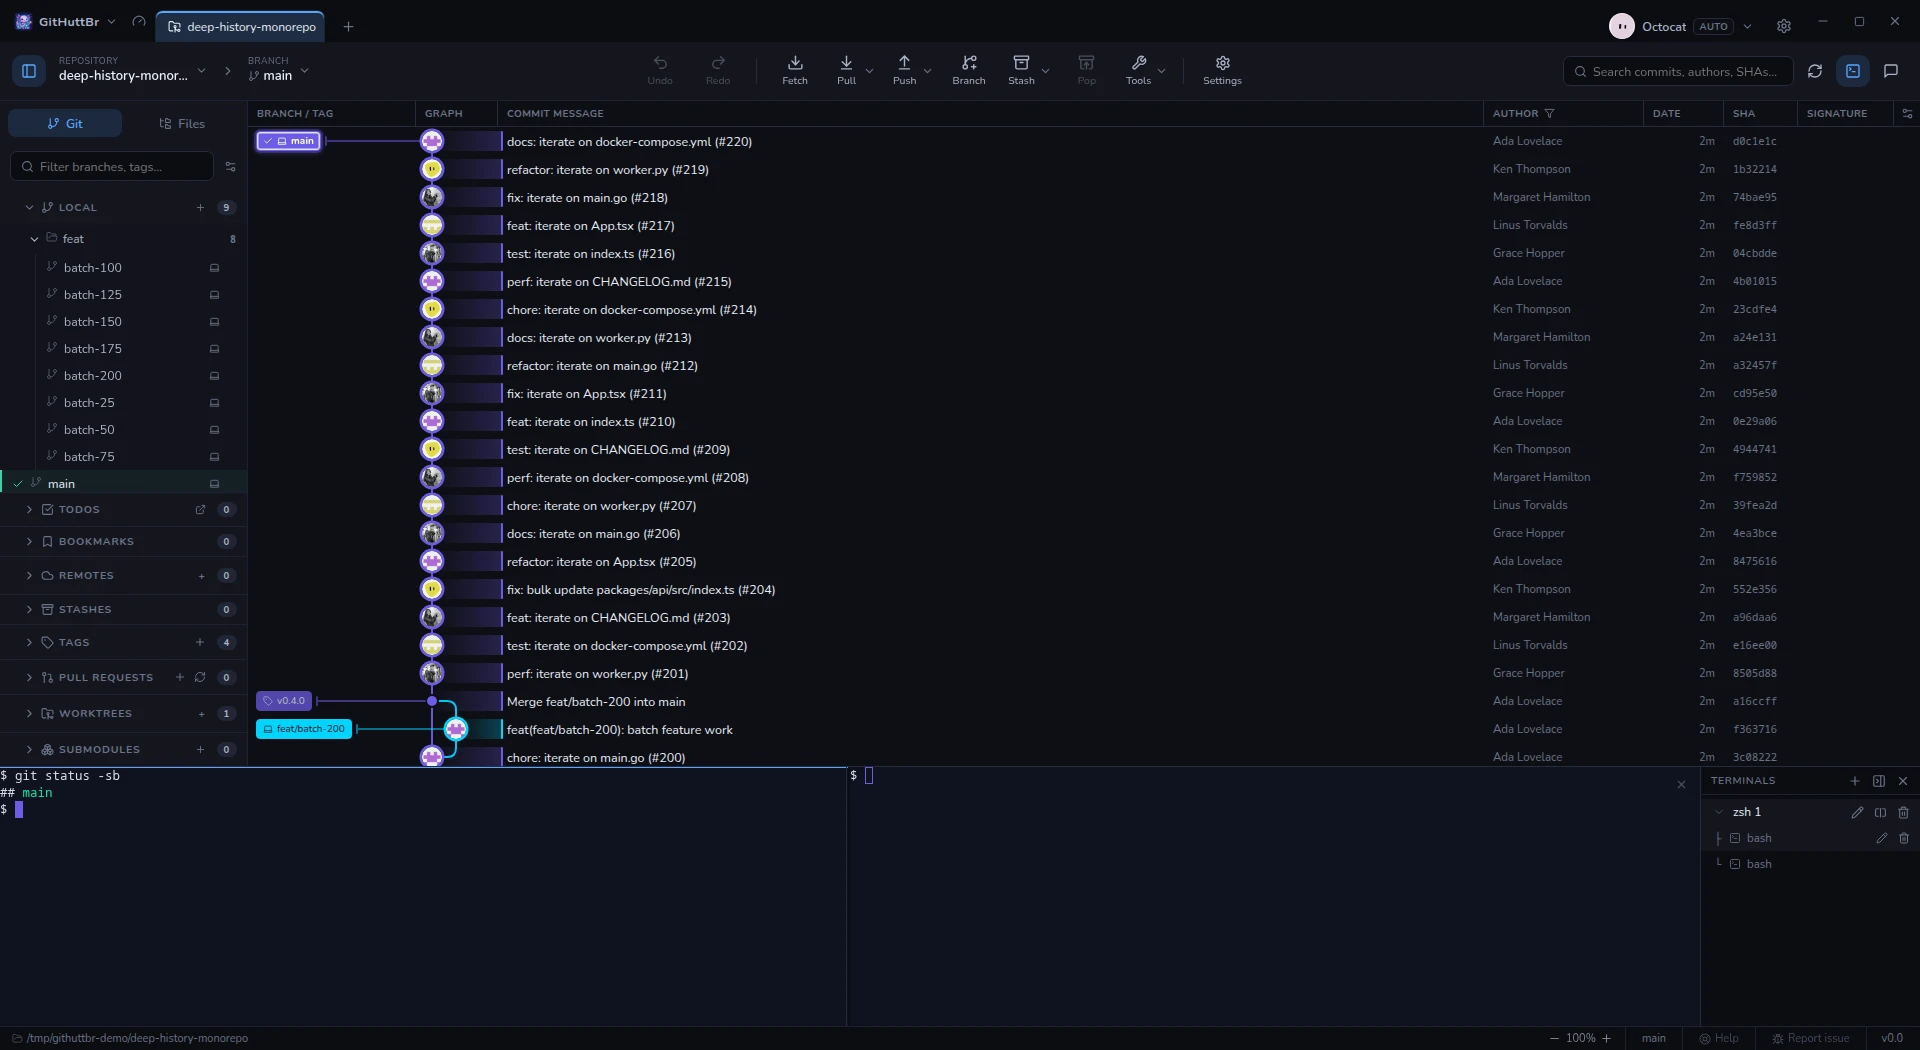
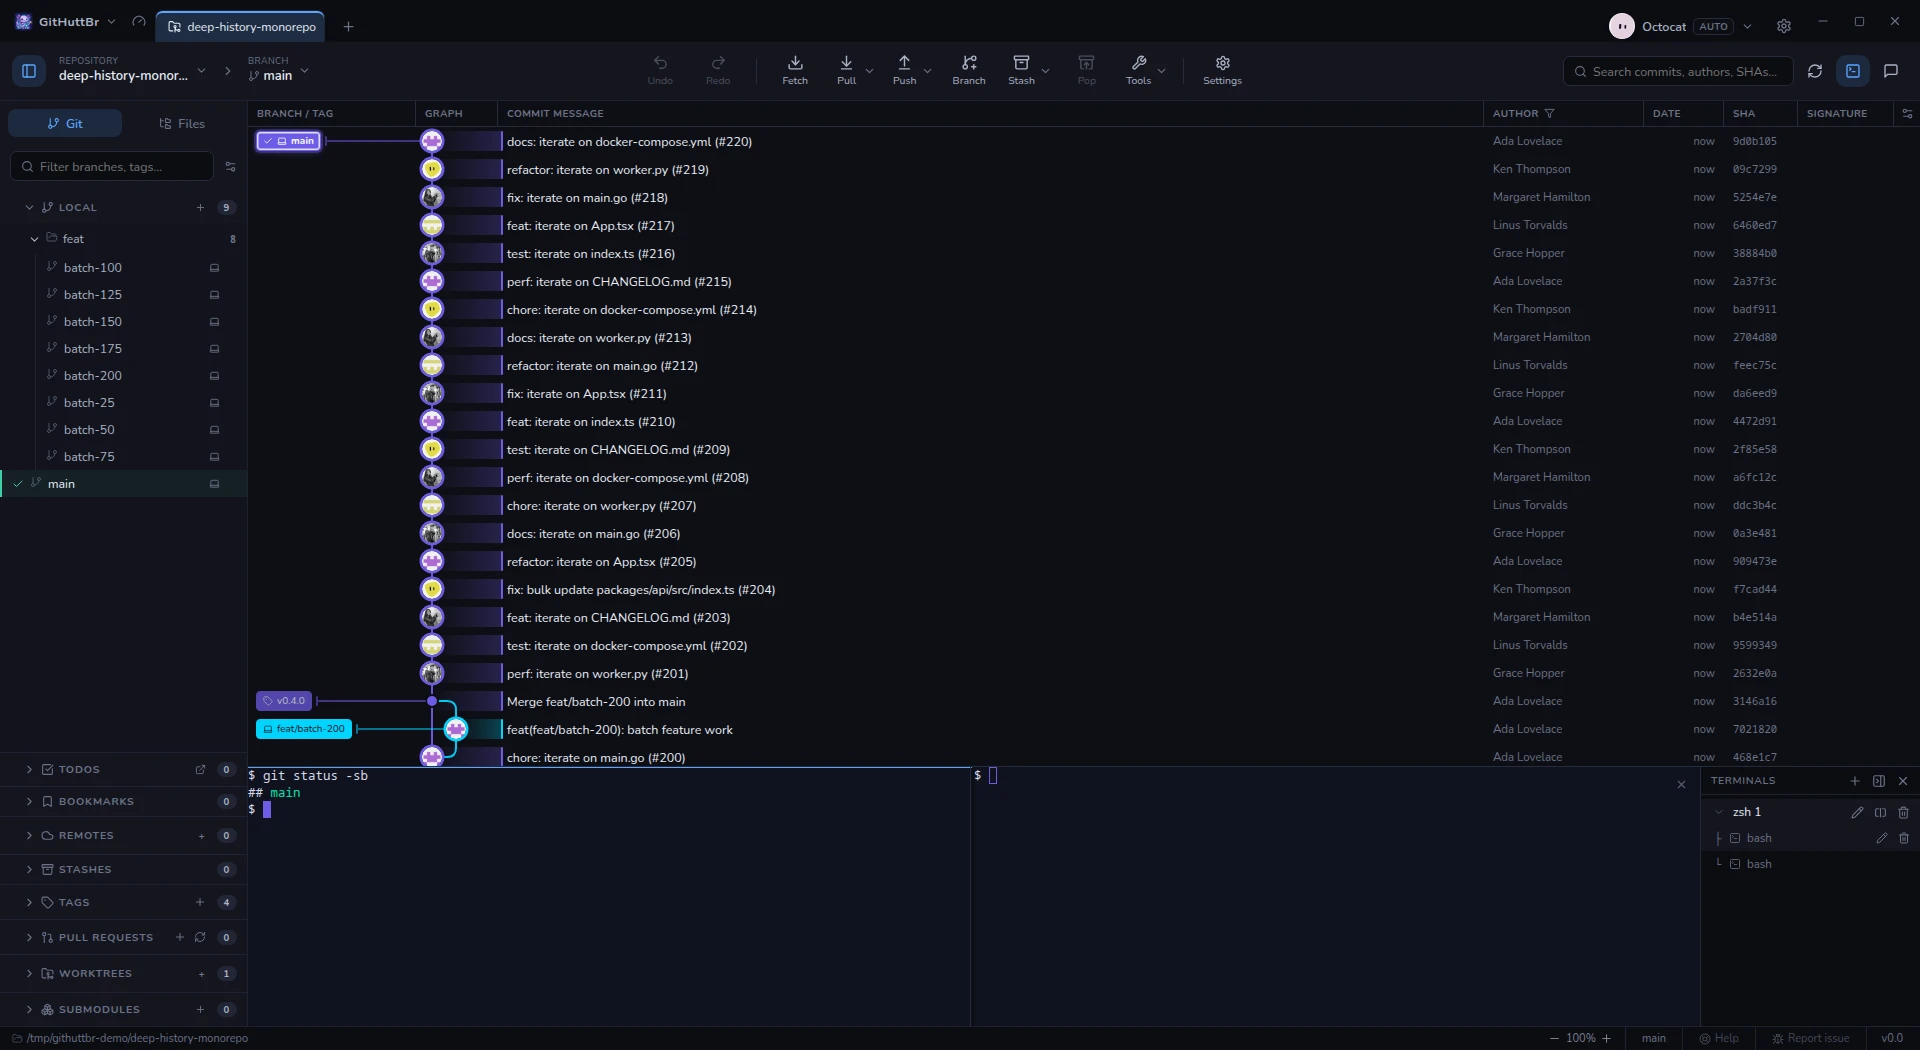
docs(terminal): document the center default and opening with a repository
Seed the screenshot harness with the option off so only terminal shots
show a terminal, and regenerate the three terminal shots in the new
default layout.

diff --git a/docs/help/terminal.md b/docs/help/terminal.md
@@ -2,8 +2,8 @@
 title: Integrated terminal
 category: Workspace tools
 order: 90
-summary: A real PTY docked under the repo, with tabs per repository.
-keywords: terminal shell pty xterm console tabs docked autocomplete npm run scripts make makefile composer branch checkout
+summary: A real PTY docked under the graph, opened with each repository, with tabs per repository.
+keywords: terminal shell pty xterm console tabs docked placement center bottom open on startup auto open autocomplete npm run scripts make makefile composer branch checkout
 ---
 
 # Integrated terminal
@@ -14,13 +14,23 @@ your aliases.
 ![The integrated terminal](../screenshots/terminal.webp)
 
 - **Multiple tabs per repository**, each starting in that repository's folder.
-- Dock it **under** the graph or as a **right-hand column**; the pane remembers
-  its size.
+- It docks **under the graph** by default, with the sidebars keeping the full
+  height; Settings → Layout moves it to the **whole bottom edge** or a
+  **right-hand column**. The pane remembers its size, and a placement you chose
+  before this became the default is kept.
+- **It opens with the repository.** The first time a repository becomes the
+  active tab in a session — restored at startup, opened from the welcome screen,
+  cloned, or sent by `githuttbr .` — its terminal opens with a shell in that
+  folder. Close it and it stays closed for that repository until the next
+  launch; switching tabs does not bring it back. Each repository you visit costs
+  one shell process, so if you hop across many, turn off **Open the terminal
+  when a repository opens** in Settings → Layout.
 - Each terminal remembers **where you were reading**: switch terminals, groups
   or repo tabs and the scrollback stays put — pinned to the bottom when it was
   already following output, back on the same line when it was not.
-- Terminal visibility is per repository: switching to a tab that never opened one
-  keeps it closed.
+- Terminal visibility is per repository: closing one repository's terminal
+  leaves the others as they are. With the option above off, switching to a tab
+  that never opened one keeps it closed.
 - Tabs name themselves after what is running in them.
 - Collapsing the terminal list shrinks it to a **rail**: one icon per terminal
   (split terminals show a mini panel map), click to switch, right-click for the

diff --git a/docs/help/uk/terminal.md b/docs/help/uk/terminal.md
@@ -18,6 +18,7 @@ keywords: термінал оболонка консоль вкладки pty te
   свій розмір.
 - Видимість термінала — окрема для кожного репозиторію: перехід на вкладку, де
   його ніколи не відкривали, залишає його закритим.
+- **Відкривається разом із репозиторієм і типово стоїть під графом.** Коли репозиторій уперше за сеанс стає активною вкладкою, його термінал відкривається з оболонкою в цій теці. Якщо закрити його, для цього репозиторію він лишиться закритим до наступного запуску. Кожен відвіданий репозиторій — це один процес оболонки; вимкніть **Відкривати термінал під час відкриття репозиторію** або змініть розташування в Налаштування → Розкладка.
 - Вкладки називають себе за тим, що в них виконується.
 - Згорнутий список терміналів стискається до **рейки**: одна іконка на термінал
   (розділені термінали показують міні-карту панелей), клацніть, щоб перемкнутися,

diff --git a/docs/help/ru/terminal.md b/docs/help/ru/terminal.md
@@ -19,6 +19,7 @@ keywords: терминал terminal шелл shell pty xterm консоль вк
   размер.
 - Видимость терминала своя у каждого репозитория: переключение на вкладку, где
   его ни разу не открывали, оставит его закрытым.
+- **Открывается вместе с репозиторием и по умолчанию стоит под графом.** Когда репозиторий впервые за сеанс становится активной вкладкой, его терминал открывается с оболочкой в этой папке. Если закрыть его, для этого репозитория он останется закрытым до следующего запуска. Каждый посещённый репозиторий — это один процесс оболочки; выключите **Открывать терминал при открытии репозитория** или смените положение в Настройки → Расположение.
 - Вкладки называют себя по тому, что в них выполняется.
 - Свёрнутый список терминалов ужимается в **рейку**: по иконке на терминал (у
   разделённых терминалов — мини-карта панелей), клик переключает, правый клик даёт

diff --git a/docs/help/he/terminal.md b/docs/help/he/terminal.md
@@ -17,6 +17,7 @@ PTY אמיתי (xterm + node-pty), לא מריץ פקודות. המעטפת של
 - עגנו אותו **מתחת** לגרף או כ**עמודה ימנית**; הפאנל זוכר את גודלו.
 - נראות הטרמינל היא לכל מאגר בנפרד: מעבר ללשונית שמעולם לא פתחה אחד משאיר אותו
   סגור.
+- **הוא נפתח יחד עם המאגר ומעוגן מתחת לגרף כברירת מחדל.** בפעם הראשונה שמאגר הופך ללשונית הפעילה בהפעלה, הטרמינל שלו נפתח עם מעטפת בתיקייה שלו. אם תסגרו אותו, הוא יישאר סגור עבור אותו מאגר עד ההפעלה הבאה. כל מאגר שמבקרים בו עולה תהליך מעטפת אחד; אפשר לכבות את **פתח את המסוף כשמאגר נפתח** או לשנות את המיקום בהגדרות ← פריסה.
 - לשוניות נותנות לעצמן שם לפי מה שרץ בהן.
 - כיווץ רשימת הטרמינלים מקטין אותה ל**מסילה**: סמל אחד לכל טרמינל (טרמינלים
   מפוצלים מציגים מפת פאנלים מוקטנת), לחיצה כדי להחליף, לחיצה ימנית לתפריט הרגיל

diff --git a/docs/help/ar/terminal.md b/docs/help/ar/terminal.md
@@ -18,6 +18,7 @@ keywords: طرفية صدفة وحدة تحكم تبويبات مرساة termin
   حجمها.
 - ظهور الطرفية يُحدَّد لكل مستودع: الانتقال إلى تبويب لم يفتح طرفية قط يُبقيها
   مغلقة.
+- **تُفتح مع المستودع وتُرسى أسفل الرسم البياني افتراضيًا.** في أول مرة يصبح فيها المستودع التبويب النشط خلال الجلسة تُفتح طرفيته مع صدفة في مجلده. إذا أغلقتها تبقى مغلقة لذلك المستودع حتى التشغيل التالي. كل مستودع تزوره يكلّف عملية صدفة واحدة؛ يمكنك إيقاف **افتح الطرفية عند فتح مستودع** أو تغيير موضعها من الإعدادات ← التخطيط.
 - تسمّي التبويبات نفسها بحسب ما يعمل داخلها.
 - طيّ قائمة الطرفيات يقلّصها إلى **شريط**: أيقونة لكل طرفية (والطرفيات المقسومة
   تعرض خريطة لوحات مصغّرة)، انقر للتبديل، وانقر بالزر الأيمن لقائمة إعادة

diff --git a/docs/help/ja/terminal.md b/docs/help/ja/terminal.md
@@ -18,6 +18,7 @@ keywords: ターミナル terminal シェル shell pty xterm コンソール con
   覚えています。
 - ターミナルの表示状態はリポジトリごとです。一度も開いていないタブに切り替えても、
   閉じたままになります。
+- **リポジトリと一緒に開き、既定ではグラフの下にドッキングします。** セッション中にリポジトリが初めてアクティブなタブになると、そのフォルダでシェルを起動したターミナルが開きます。閉じると、そのリポジトリでは次回の起動まで閉じたままです。訪れたリポジトリごとにシェルのプロセスが 1 つ増えます。**リポジトリを開いたときにターミナルを開く** のオン／オフと位置は 設定 → レイアウト で変えられます。
 - タブは、その中で動いているものの名前を自分で名乗ります。
 - ターミナルの一覧を畳むと **レール** に縮みます。ターミナルごとにアイコンが 1 つ
   （分割されたターミナルは小さなパネル図を出します）並び、クリックで切り替え、右クリック

diff --git a/docs/help/ko/terminal.md b/docs/help/ko/terminal.md
@@ -18,6 +18,7 @@ keywords: 터미널 셸 콘솔 탭 도킹 분할 terminal shell pty xterm consol
   기억해요.
 - 터미널 표시 여부는 저장소별이에요. 한 번도 터미널을 연 적 없는 탭으로 전환하면
   닫힌 채로 있어요.
+- **저장소와 함께 열리고, 기본적으로 그래프 아래에 도킹돼요.** 세션에서 저장소가 처음으로 활성 탭이 되면 그 폴더에서 셸을 띄운 터미널이 열려요. 닫으면 그 저장소에서는 다음 실행까지 닫힌 채로 있어요. 방문한 저장소마다 셸 프로세스가 하나씩 생겨요. **저장소를 열 때 터미널 열기**와 위치는 설정 → 레이아웃에서 바꿀 수 있어요.
 - 탭은 그 안에서 실행 중인 것의 이름을 스스로 붙여요.
 - 터미널 목록을 접으면 **레일**로 줄어들어요. 터미널마다 아이콘 하나씩(분할된
   터미널은 작은 패널 배치도를 보여 줘요), 클릭하면 전환하고, 오른쪽 클릭하면 평소의

diff --git a/docs/help/tr/terminal.md b/docs/help/tr/terminal.md
@@ -18,6 +18,7 @@ sizin komut satırınız, sizin takma adlarınız.
   panel boyutunu hatırlar.
 - Terminalin görünürlüğü depo bazındadır: hiç terminal açılmamış bir sekmeye
   geçtiğinizde kapalı kalır.
+- **Depoyla birlikte açılır ve varsayılan olarak grafiğin altına yerleşir.** Bir depo oturumda ilk kez etkin sekme olduğunda, terminali o klasörde bir kabukla açılır. Kapatırsanız o depo için bir sonraki başlatmaya kadar kapalı kalır. Ziyaret ettiğiniz her depo bir kabuk süreci demektir; **Bir depo açıldığında terminali aç** seçeneğini kapatabilir ya da konumu Ayarlar → Yerleşim'den değiştirebilirsiniz.
 - Sekmeler, içlerinde çalışan şeye göre kendilerini adlandırır.
 - Terminal listesini katlamak onu bir **raya** indirger: terminal başına bir
   simge (bölünmüş terminaller küçük bir panel haritası gösterir), geçiş yapmak

diff --git a/docs/help/de/terminal.md b/docs/help/de/terminal.md
@@ -18,6 +18,7 @@ deine Aliase.
   sich seine Größe.
 - Die Sichtbarkeit des Terminals gilt pro Repository: wechselst du zu einem Tab,
   der nie eines geöffnet hat, bleibt es geschlossen.
+- **Es öffnet sich mit dem Repository und dockt standardmäßig unter dem Graphen an.** Wird ein Repository in einer Sitzung zum ersten Mal zum aktiven Tab, öffnet sich sein Terminal mit einer Shell in dessen Ordner. Schließt du es, bleibt es für dieses Repository bis zum nächsten Start geschlossen. Jedes besuchte Repository kostet einen Shell-Prozess; **Terminal beim Öffnen eines Repositorys öffnen** und die Position stellst du unter Einstellungen → Layout ein.
 - Tabs benennen sich nach dem, was in ihnen läuft.
 - Klappst du die Terminal-Liste ein, schrumpft sie zu einer **Leiste**: ein Icon
   pro Terminal (geteilte Terminals zeigen eine Mini-Karte der Panels), Klick zum

diff --git a/docs/help/pl/terminal.md b/docs/help/pl/terminal.md
@@ -19,6 +19,7 @@ twój znak zachęty, twoje aliasy.
   rozmiar.
 - Widoczność terminala jest per repozytorium: przełączenie się na kartę, która
   nigdy żadnego nie otworzyła, zostawia go zamkniętym.
+- **Otwiera się razem z repozytorium i domyślnie dokuje pod grafem.** Gdy repozytorium po raz pierwszy w sesji staje się aktywną kartą, jego terminal otwiera się z powłoką w tym katalogu. Zamknięty zostaje zamknięty dla tego repozytorium do następnego uruchomienia. Każde odwiedzone repozytorium to jeden proces powłoki; wyłącz **Otwieraj terminal po otwarciu repozytorium** albo zmień położenie w Ustawienia → Układ.
 - Karty nazywają się same, według tego, co w nich działa.
 - Zwinięcie listy terminali kurczy ją do **szyny**: jedna ikona na terminal
   (terminale podzielone pokazują mini mapę paneli), kliknij, żeby przełączyć,

diff --git a/docs/help/it/terminal.md b/docs/help/it/terminal.md
@@ -19,6 +19,7 @@ tuo prompt, i tuoi alias.
   ricorda la propria dimensione.
 - La visibilità del terminale è per repository: passando a una scheda che non ne
   ha mai aperto uno, resta chiuso.
+- **Si apre con il repository e sta sotto il grafo per impostazione predefinita.** La prima volta che un repository diventa la scheda attiva nella sessione, il suo terminale si apre con una shell in quella cartella. Se lo chiudi, resta chiuso per quel repository fino al prossimo avvio. Ogni repository visitato costa un processo shell; disattiva **Apri il terminale all’apertura di un repository** o cambia la posizione in Impostazioni → Disposizione.
 - Le schede si danno il nome in base a ciò che vi sta girando.
 - Richiudere l'elenco dei terminali lo riduce a una **guida laterale**:
   un'icona per terminale (i terminali divisi mostrano una mini mappa dei
